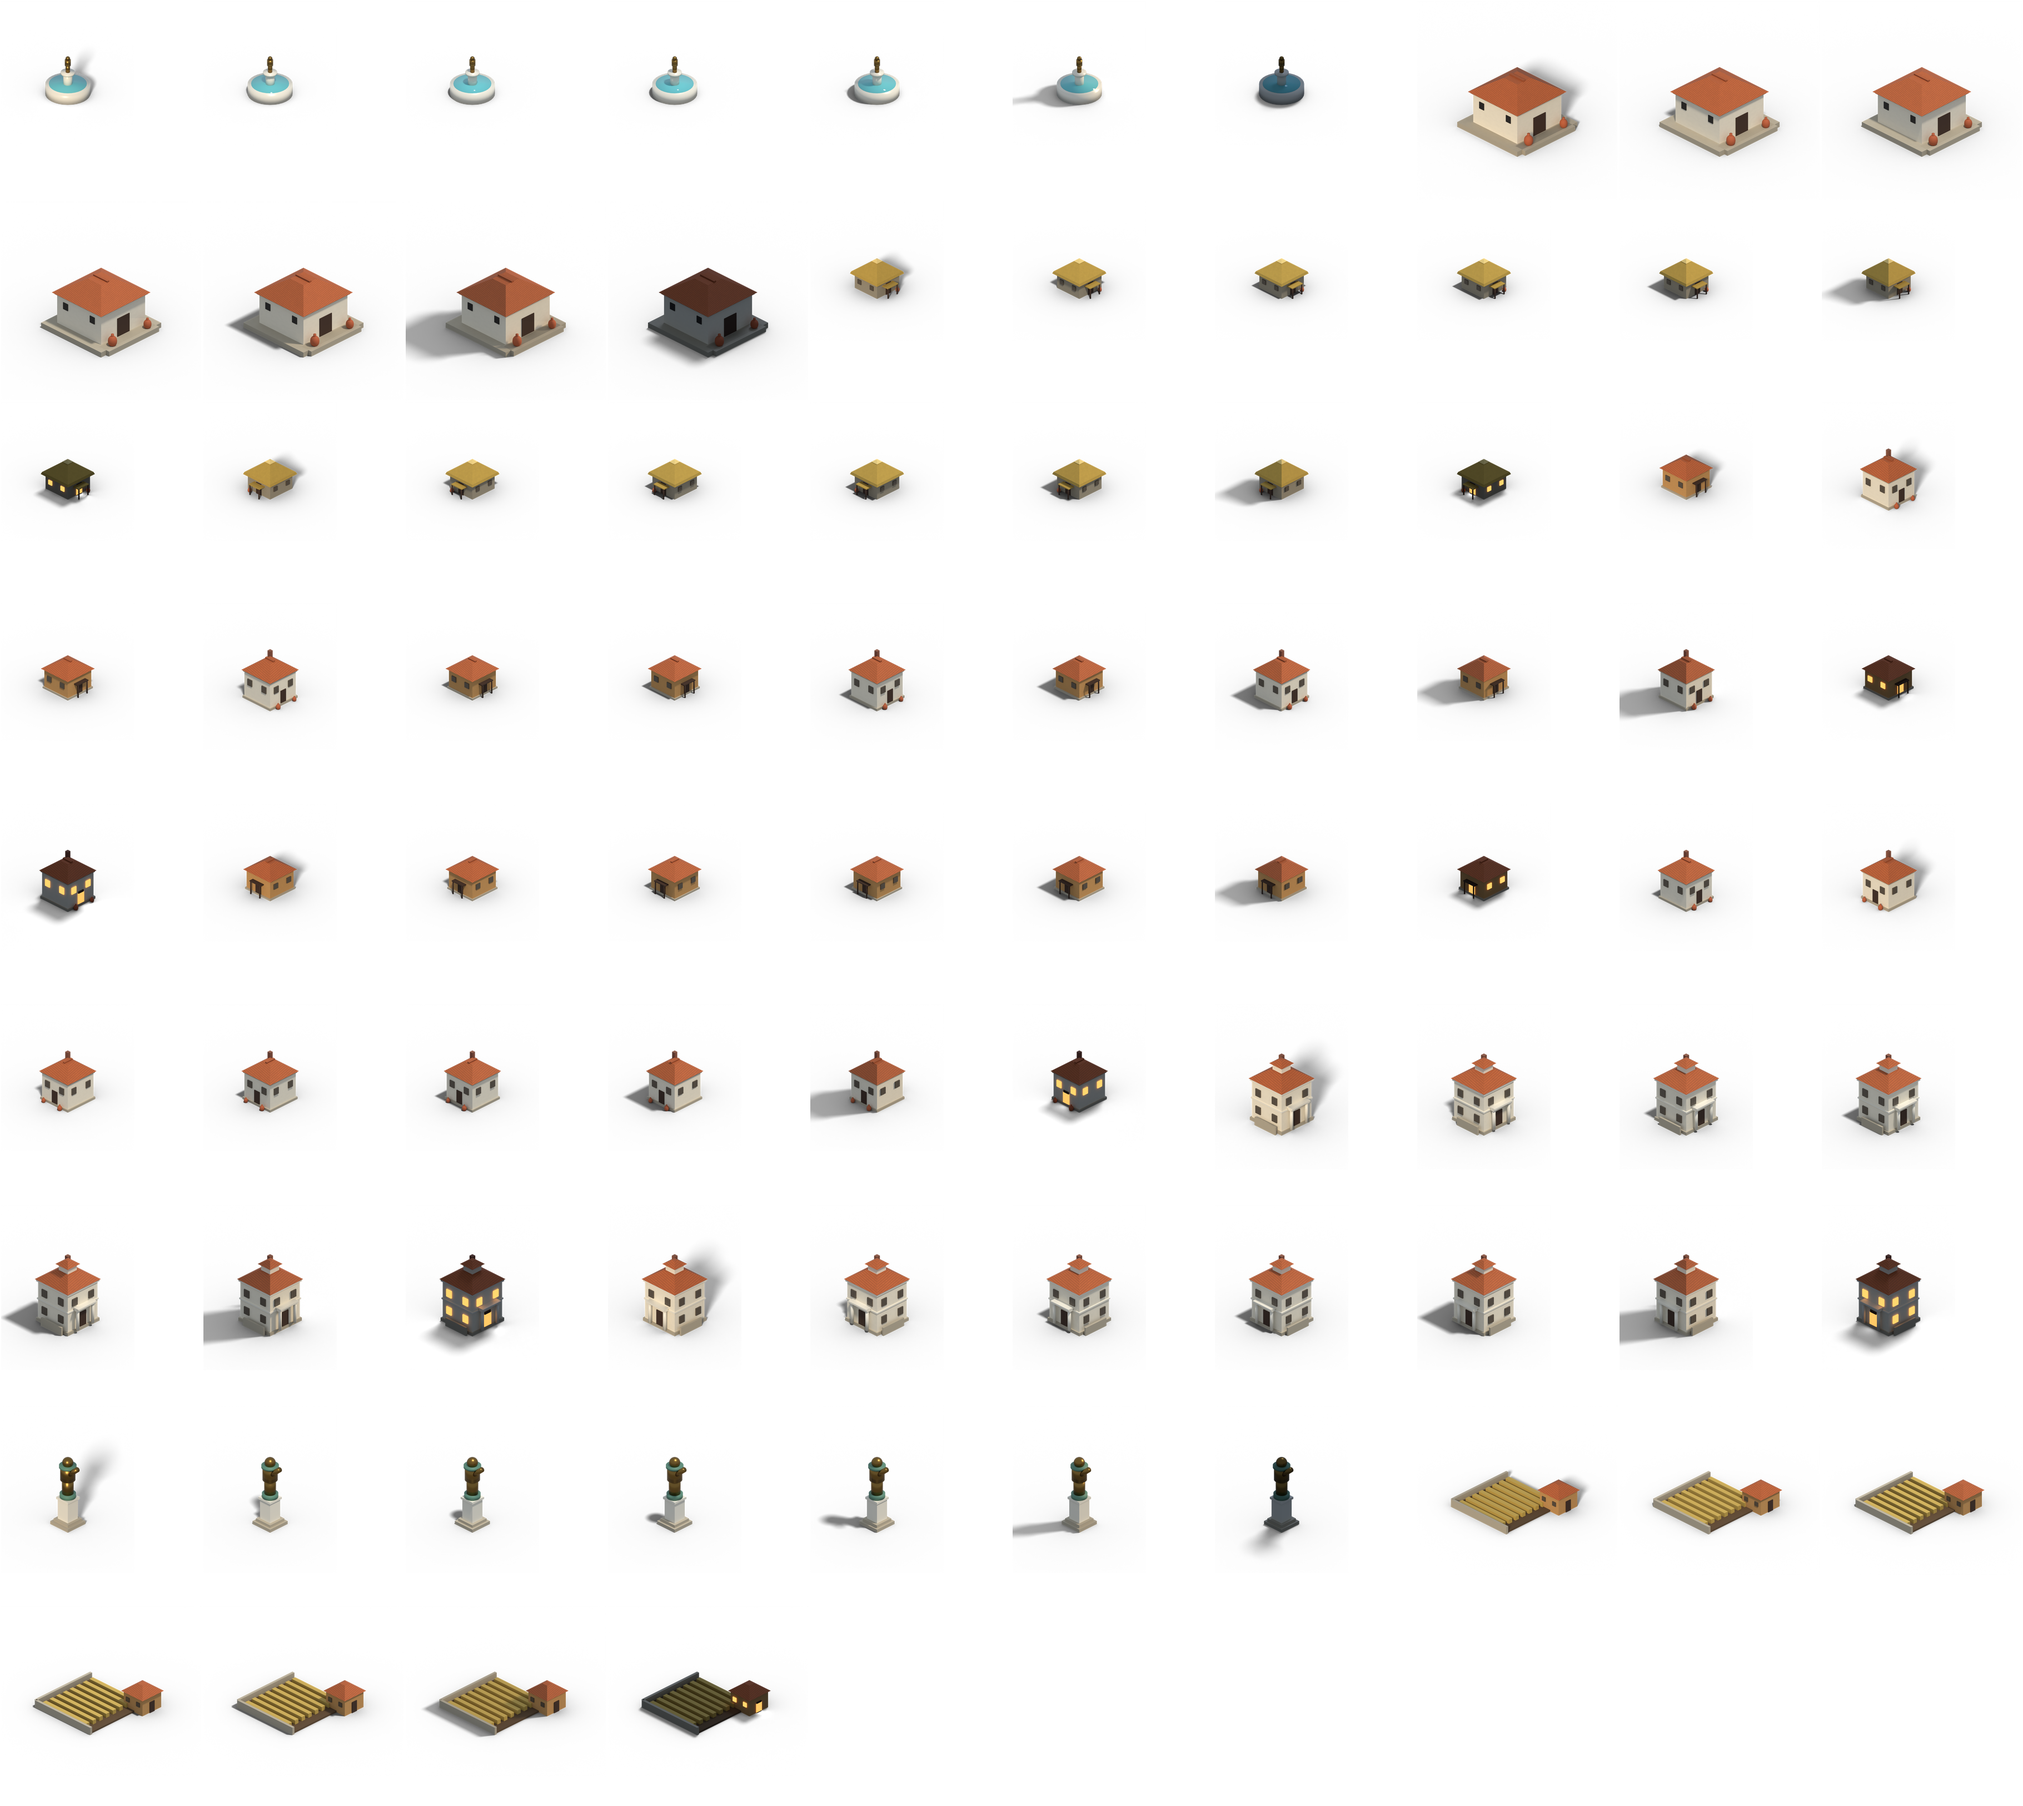
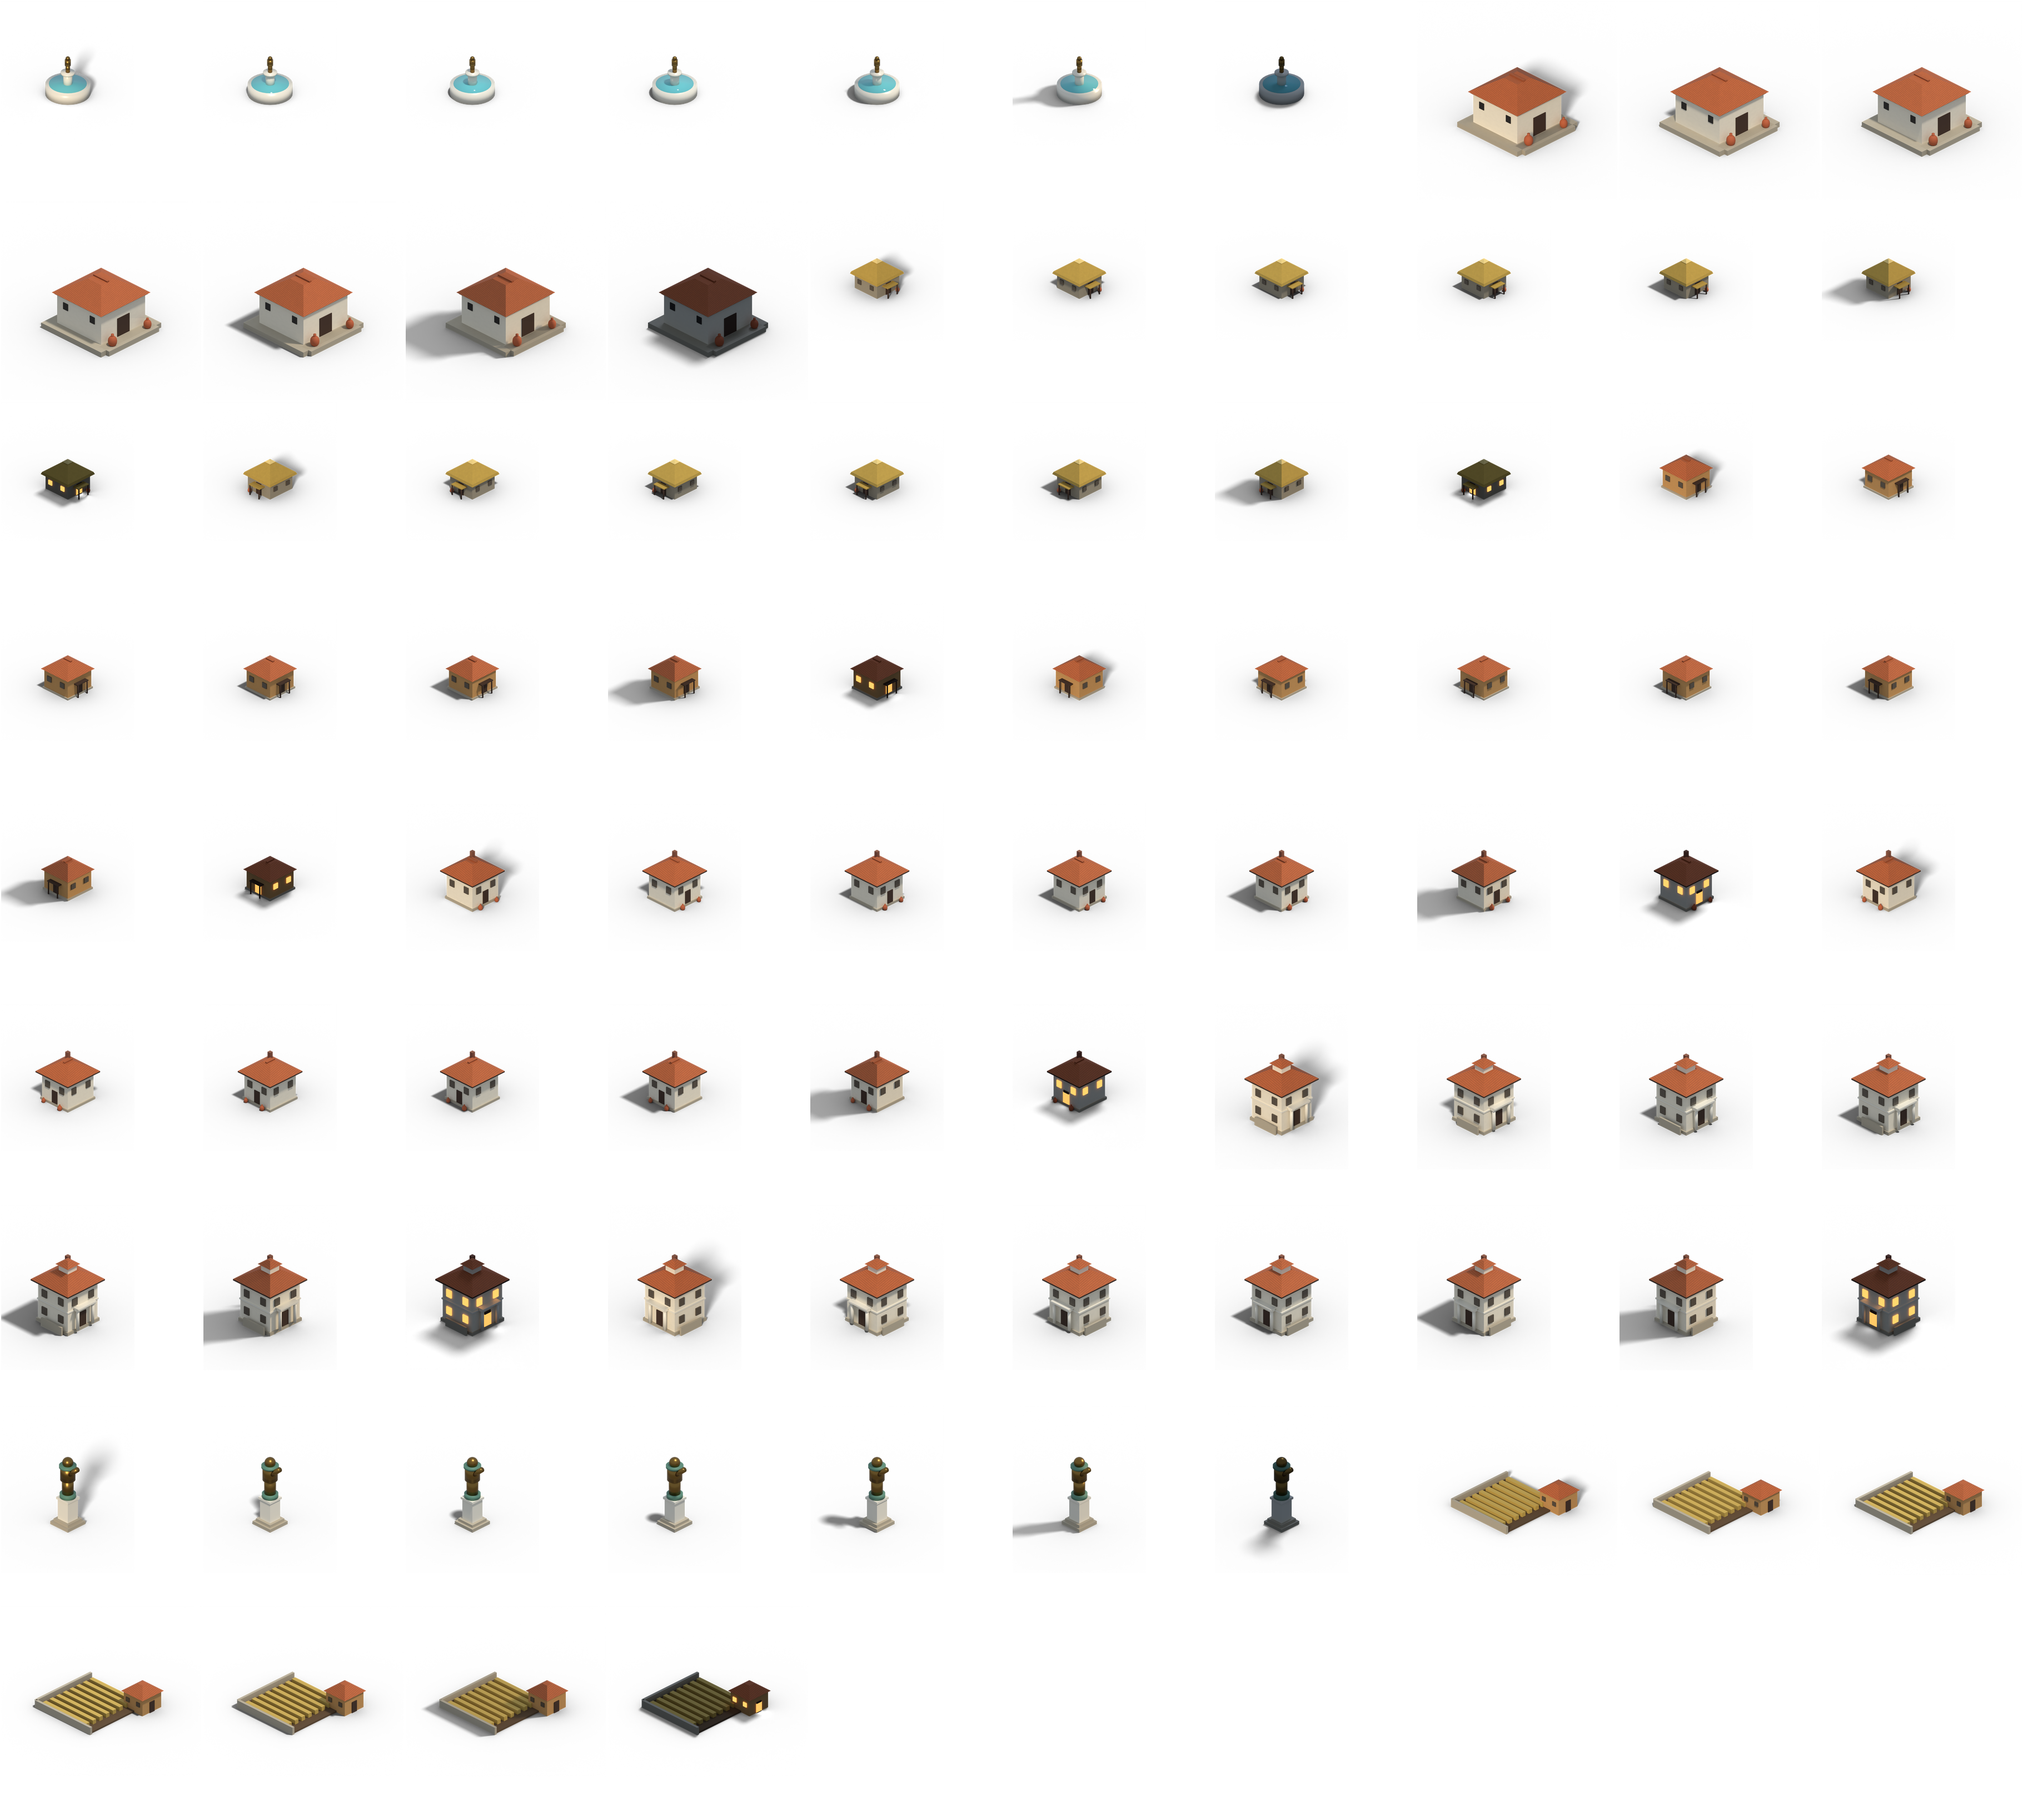
Eaves overhang on tenement and homestead

diff --git a/pipeline/iso_render.py b/pipeline/iso_render.py
@@ -188,6 +188,11 @@ def square_radius(half_side):
     return half_side * math.sqrt(2)
 
 
+def add_eaves(name, half_side, z, mat):
+    """Thin slab under the roof edge so the overhang reads from below."""
+    return add_box(name, (0, 0, z - 0.0125), (half_side * 2, half_side * 2, 0.025), mat)
+
+
 def add_hip_roof(name, centre, half_side, depth, mat, ridge_half=0.08):
     """A pyramid roof flattened at the peak — reads as a hip roof, not a shack point."""
     bpy.ops.mesh.primitive_cone_add(
@@ -379,7 +384,9 @@ def build_house_2(phase):
 
     roof_z = 0.05 + wall_h + 0.03
     roof_h = 0.22
-    add_hip_roof("roof", (0, 0, roof_z + roof_h / 2), half + 0.04, roof_h, terracotta, ridge_half=0.1)
+    eave = half + 0.09
+    add_eaves("eaves", eave, roof_z, wood)
+    add_hip_roof("roof", (0, 0, roof_z + roof_h / 2), eave, roof_h, terracotta, ridge_half=0.1)
     add_box("ridge", (0, 0, roof_z + roof_h + 0.01), (0.22, 0.05, 0.03), terracotta)
     add_box("chimney", (-0.16, 0.16, roof_z + roof_h - 0.02), (0.07, 0.07, 0.2), brick)
 
@@ -414,7 +421,9 @@ def build_house_3(phase):
 
     roof_z = 0.06 + wall_h + 0.04
     roof_h = 0.18
-    add_hip_roof("roof", (0, 0, roof_z + roof_h / 2), half + 0.04, roof_h, terracotta, ridge_half=0.14)
+    eave = half + 0.09
+    add_eaves("eaves", eave, roof_z, wood)
+    add_hip_roof("roof", (0, 0, roof_z + roof_h / 2), eave, roof_h, terracotta, ridge_half=0.14)
     add_box("clerestory", (0, 0, roof_z + roof_h + 0.06), (0.22, 0.22, 0.12), whitewash)
     add_box("chimney", (-0.2, 0.2, roof_z + roof_h * 0.45 + 0.1), (0.07, 0.07, 0.24), brick)
     add_hip_roof("clerestory_roof", (0, 0, roof_z + roof_h + 0.12 + 0.04), 0.15, 0.08, terracotta, ridge_half=0.03)
